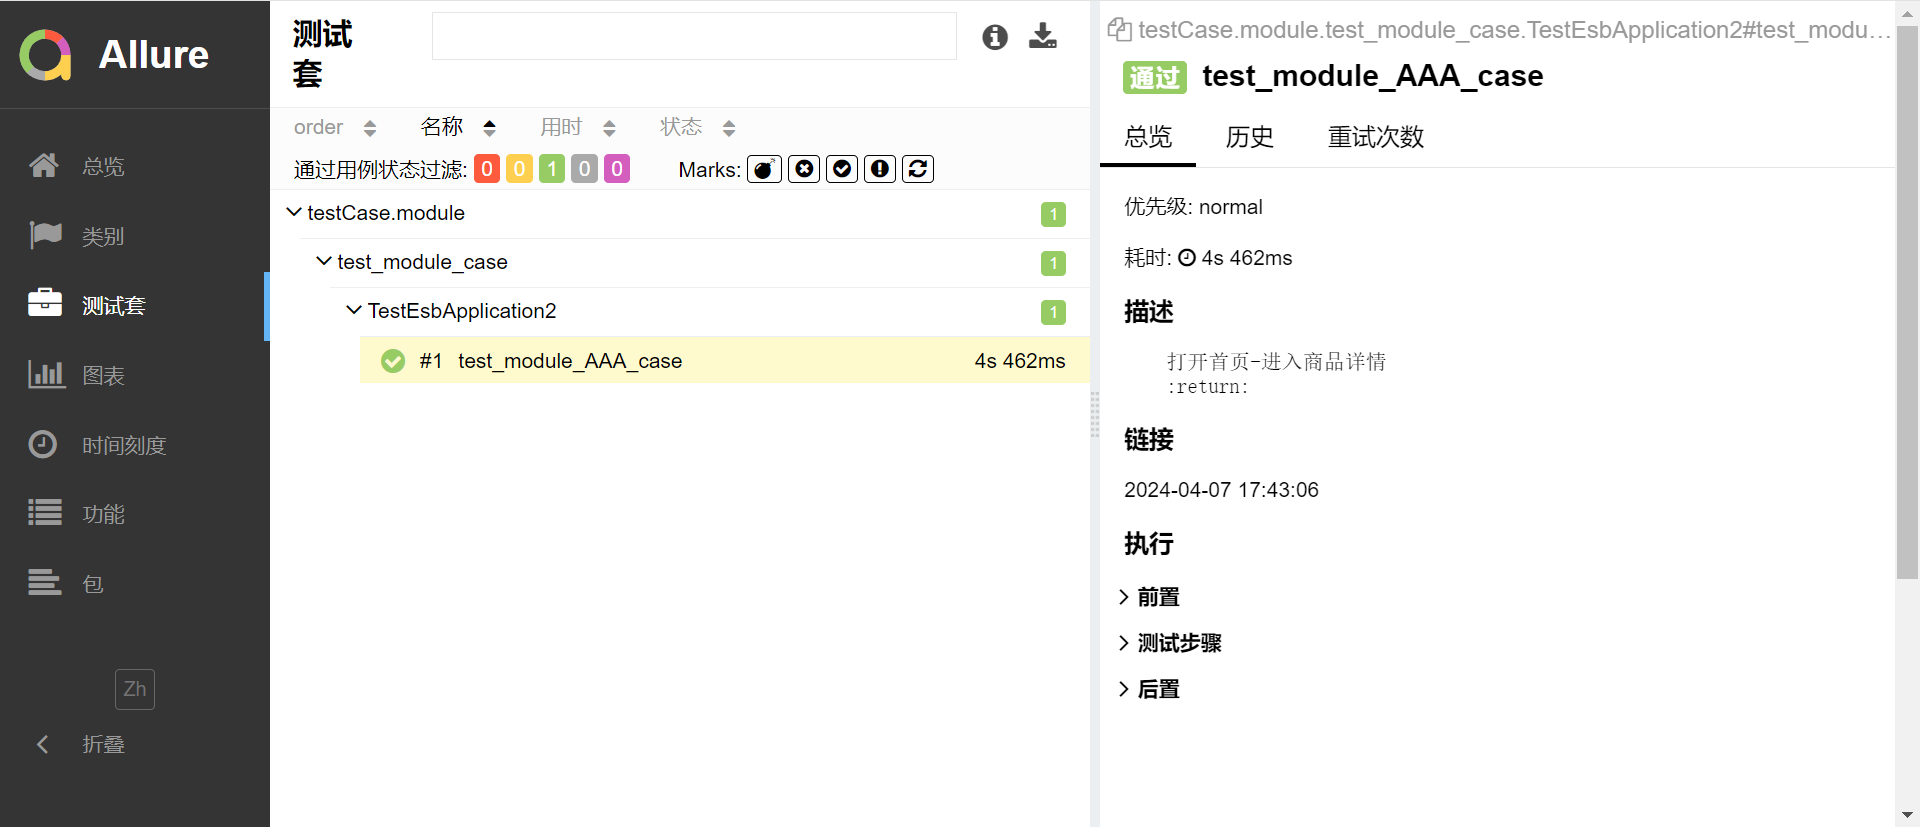
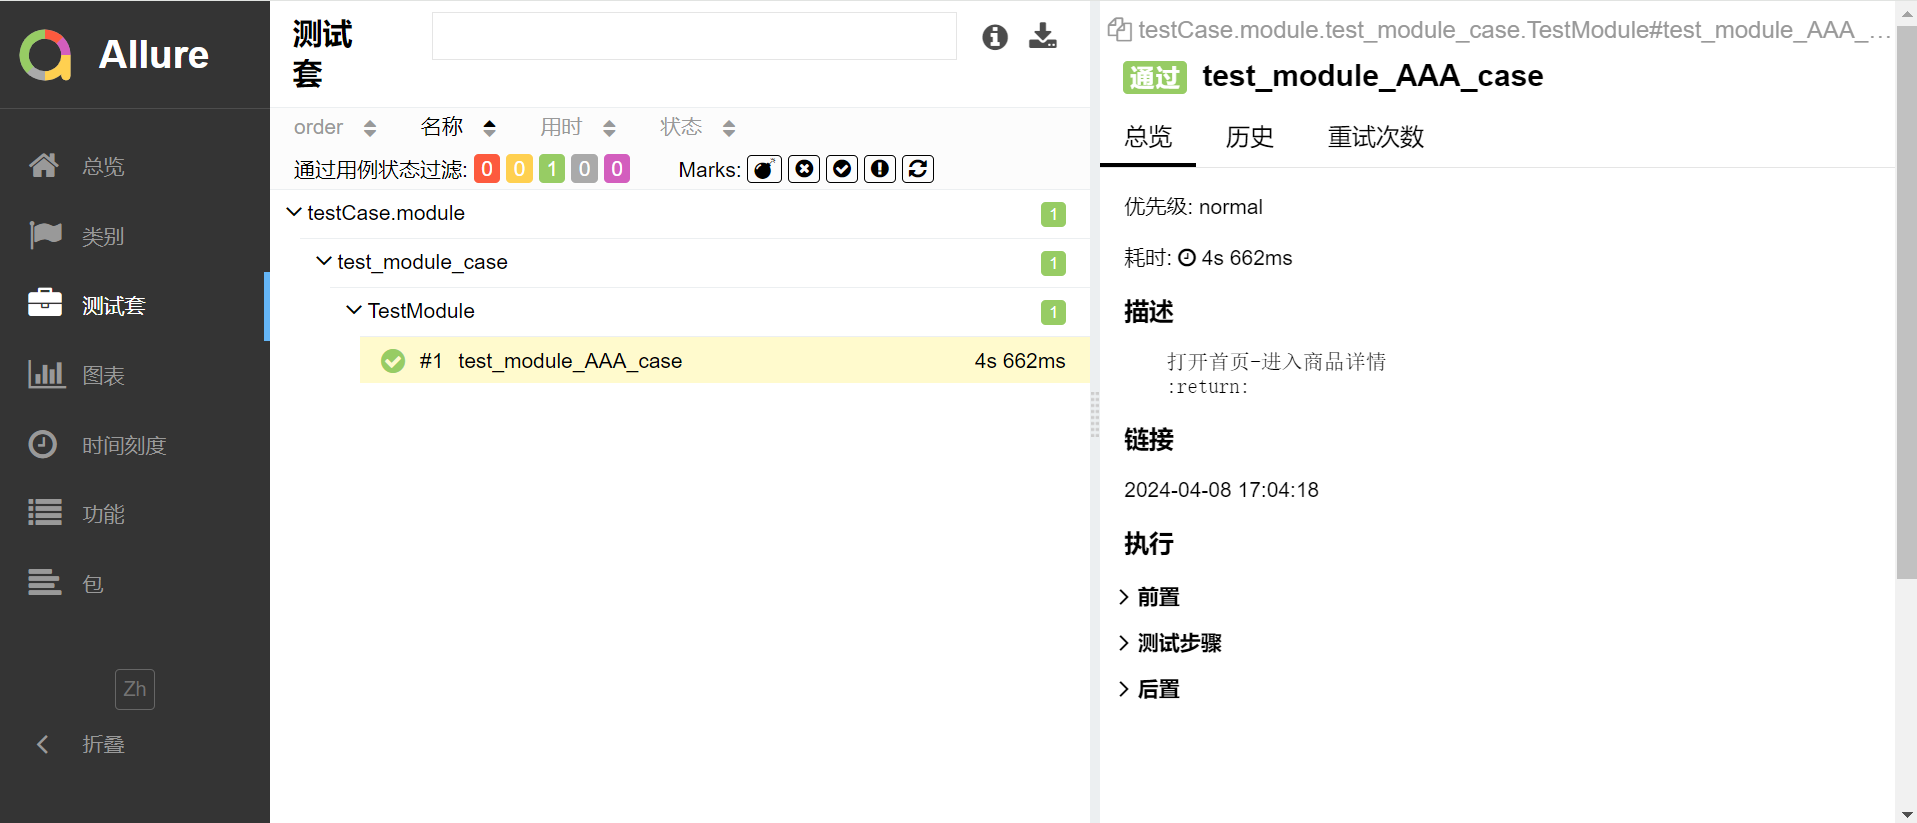
修改名称

diff --git a/ui_frame/testCase/module/test_module_case.py b/ui_frame/testCase/module/test_module_case.py
@@ -19,7 +19,7 @@ def class_fixture(browser, class_login):
 
 @allure.epic("xx项目")
 @allure.feature("xx模块-xx功能")
-class TestEsbApplication2:
+class TestModule:
 
     def setup_class(self):
         # 页面
